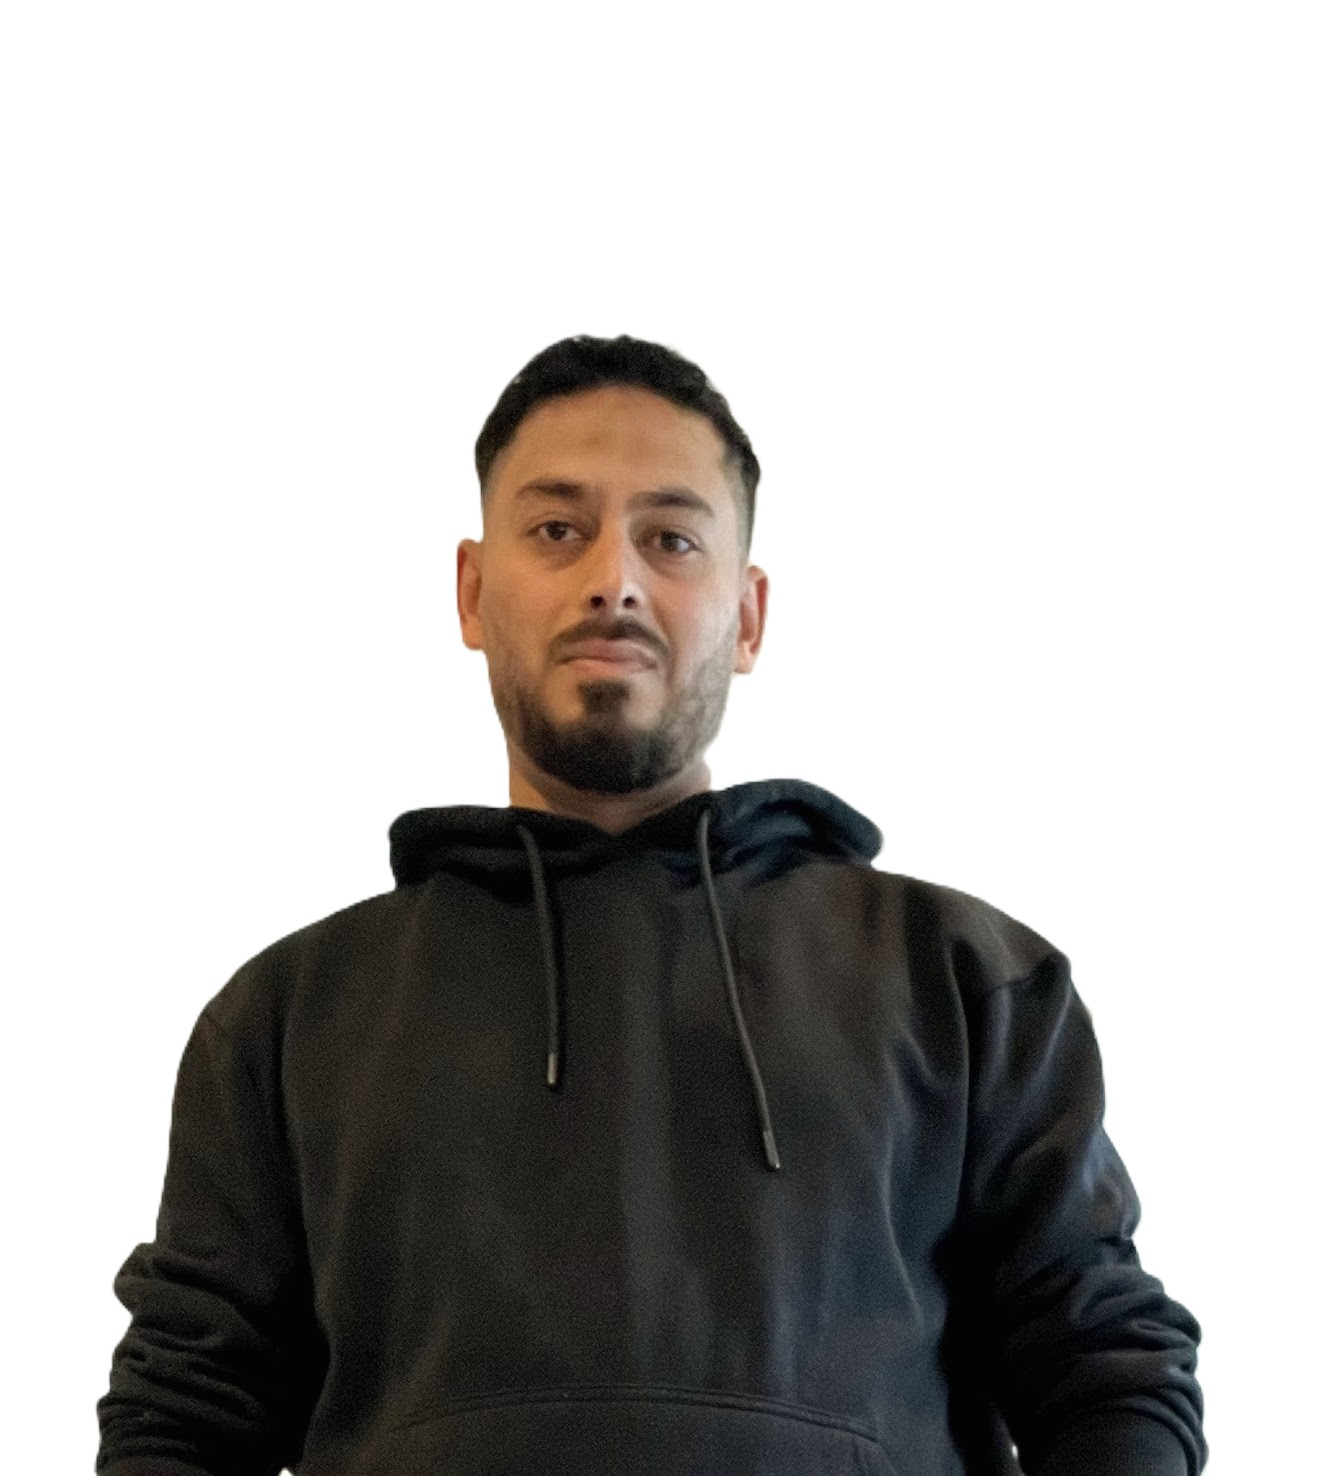
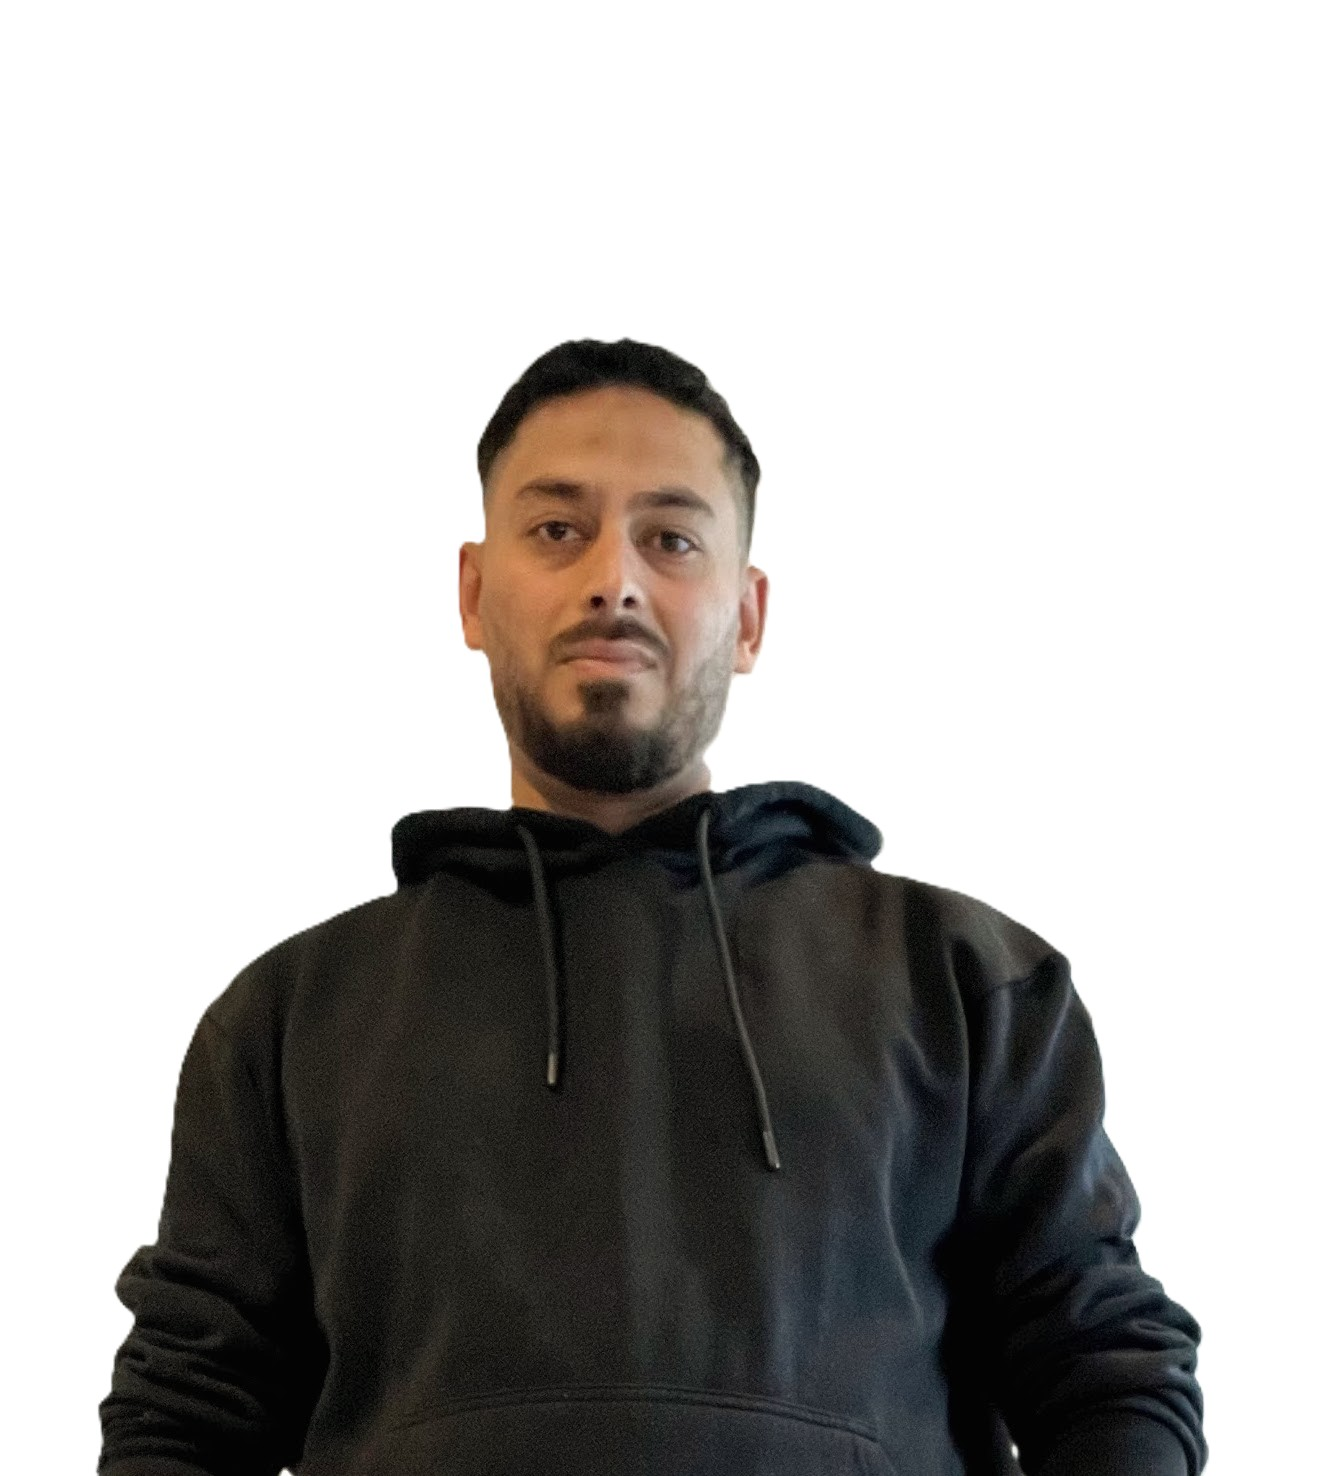
//

diff --git a/src/components/HeaderContent.js b/src/components/HeaderContent.js
@@ -1,6 +1,6 @@
 /* eslint-disable jsx-a11y/img-redundant-alt */
 import Title from "./Title";
-import MyImage from '../images/nourspic2.jpg';
+import MyImage from '../images/bilde3.png';
 
 export default function HeaderContent() {
   return (
